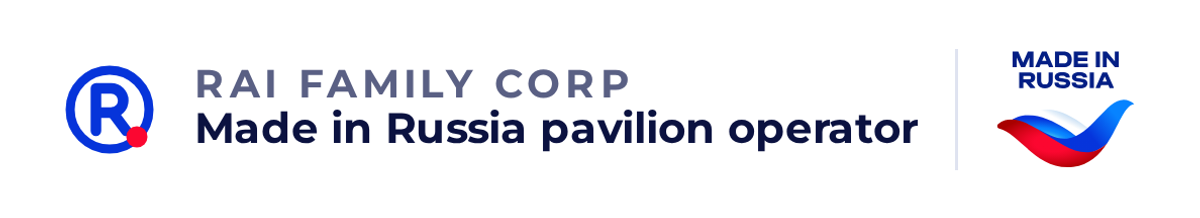
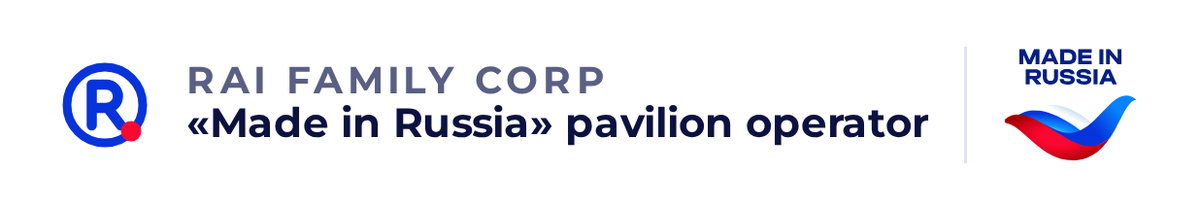
fix(i18n): write the «Made in Russia» mark in guillemets everywhere
Same convention as «Сделано в России» in RU. The only unquoted form left is
the image alt (status.markAlt). Rule recorded in CLAUDE.md.

Claude-Session: https://claude.ai/code/session_0174xDGYvpD3uDKJ4RSyVDz9

diff --git a/src/i18n/ui.ts b/src/i18n/ui.ts
@@ -98,9 +98,9 @@ export const ui: Record<'en' | 'ru', Copy> = {
   en: {
     meta: {
       siteName: 'Rai Family Corp',
-      title: 'Rai Family Corp: operator of the Made in Russia National Pavilion in India',
+      title: 'Rai Family Corp: operator of the «Made in Russia» National Pavilion in India',
       description:
-        'Rai Family Corp LLP is the operator of the Made in Russia National Pavilion in Navi Mumbai, a Russian Export Center project and the first in India. Distribution, marketing, import, certification and logistics for Russian products.',
+        'Rai Family Corp LLP is the operator of the «Made in Russia» National Pavilion in Navi Mumbai, a Russian Export Center project and the first in India. Distribution, marketing, import, certification and logistics for Russian products.',
     },
     nav: {
       about: 'About',
@@ -126,17 +126,17 @@ export const ui: Record<'en' | 'ru', Copy> = {
       cardTitle: '{count} Russian {count:company is|companies are} already in the pavilion',
     },
     trust: {
-      operator: 'Made in Russia pavilion operator',
+      operator: '«Made in Russia» pavilion operator',
       pavilion: 'First pavilion of the programme in India',
       since: 'Company since 2024, pavilion since August 2026',
-      mark: 'Made in Russia mark',
+      mark: '«Made in Russia» mark',
     },
     status: {
       company: 'Rai Family Corp',
       // Top line for direction sites (D5 and the next ones), where the operator's name is not on the page.
       direction: 'A Rai Family Corp direction',
-      line: 'Made in Russia pavilion operator, India',
-      lineShort: 'Made in Russia pavilion operator',
+      line: '«Made in Russia» pavilion operator, India',
+      lineShort: '«Made in Russia» pavilion operator',
       markAlt: 'Made in Russia mark',
     },
     audiences: {
@@ -146,7 +146,7 @@ export const ui: Record<'en' | 'ru', Copy> = {
       items: {
         manufacturers: {
           title: 'Russian manufacturers',
-          text: 'Enter the Indian market through the Made in Russia pavilion: market assessment, adaptation, certification, import and distribution under one contract.',
+          text: 'Enter the Indian market through the «Made in Russia» pavilion: market assessment, adaptation, certification, import and distribution under one contract.',
           cta: 'See services',
         },
         distributors: {
@@ -161,7 +161,7 @@ export const ui: Record<'en' | 'ru', Copy> = {
         },
         consumers: {
           title: 'Consumers in India',
-          text: 'Products carrying the Made in Russia mark are imported, certified and distributed in India through this pavilion.',
+          text: 'Products carrying the «Made in Russia» mark are imported, certified and distributed in India through this pavilion.',
           cta: 'Browse products',
         },
       },
@@ -170,11 +170,11 @@ export const ui: Record<'en' | 'ru', Copy> = {
       eyebrow: 'About the company',
       title: 'The official gateway for Russian products and technologies into India',
       paragraphs: [
-        'Rai Family Corp LLP is an Indian company and the operator of the Made in Russia National Pavilion in Navi Mumbai, a Russian Export Center project. The pavilion is where Russian manufacturers meet Indian distributors, retail chains and institutions.',
+        'Rai Family Corp LLP is an Indian company and the operator of the «Made in Russia» National Pavilion in Navi Mumbai, a Russian Export Center project. The pavilion is where Russian manufacturers meet Indian distributors, retail chains and institutions.',
         'We provide direct distribution channels and marketing promotion, and cover the full range of related work: market research, product and packaging adaptation, certification, import procedures, legal support and logistics.',
       ],
       facts: [
-        { label: 'Status', value: 'Made in Russia National Pavilion operator' },
+        { label: 'Status', value: '«Made in Russia» National Pavilion operator' },
         { label: 'Founded', value: 'September 2024' },
         { label: 'Registered', value: 'India, Maharashtra' },
         { label: 'Pavilion', value: 'Opened 21 August 2026, CBD Belapur, Navi Mumbai' },
@@ -251,10 +251,10 @@ export const ui: Record<'en' | 'ru', Copy> = {
     },
     pavilion: {
       eyebrow: 'Pavilion',
-      title: 'Made in Russia National Pavilion, Navi Mumbai',
+      title: '«Made in Russia» National Pavilion, Navi Mumbai',
       subtitle:
         'A Russian Export Center project · opened 21 August 2026 · CBD Belapur, Navi Mumbai',
-      text: 'The first Made in Russia pavilion in India, a Russian Export Center project opened on 21 August 2026. It is the physical home of Russian products in the country: a showroom for distributors and institutions, a venue for tastings and B2B meetings, and the office of the operator, Rai Family Corp.',
+      text: 'The first «Made in Russia» pavilion in India, a Russian Export Center project opened on 21 August 2026. It is the physical home of Russian products in the country: a showroom for distributors and institutions, a venue for tastings and B2B meetings, and the office of the operator, Rai Family Corp.',
       addressLabel: 'Address',
       address: [
         'Office No. 1307 and 1308, NMS Titanium, 13th Floor',
@@ -277,10 +277,10 @@ export const ui: Record<'en' | 'ru', Copy> = {
     footer: {
       legal: 'Rai Family Corp LLP',
       operator:
-        'Operator of the Made in Russia National Pavilion in India, a Russian Export Center project',
+        'Operator of the «Made in Russia» National Pavilion in India, a Russian Export Center project',
       rights: 'All rights reserved.',
       madeInRussia:
-        '“Made in Russia” is a trademark of the Russian Export Center, used with permission.',
+        '«Made in Russia» is a trademark of the Russian Export Center, used with permission.',
     },
     notFound: {
       title: 'Page not found',

diff --git a/src/data/company.ts b/src/data/company.ts
@@ -11,7 +11,7 @@ export const company = {
   /** Whether it is the first pavilion of the programme in India. Подтвердить у РЭЦ. */
   firstInIndia: true,
   /** Official English name of the pavilion. Подтвердить у РЭЦ. */
-  officialPavilionName: 'Made in Russia National Pavilion',
+  officialPavilionName: '«Made in Russia» National Pavilion',
   /** Russian companies present in the pavilion. Open sources, checked 2026-09-14; update the date when the number changes. */
   pavilionResidents: 52,
   pavilionResidentsCheckedOn: '2026-09-14',

diff --git a/CLAUDE.md b/CLAUDE.md
@@ -44,6 +44,8 @@ tailwind, eslint/prettier с astro-плагинами, playwright + axe, lhci).
   знак «Made in Russia» можно использовать как партнёрскую марку; вектор лежит в
   `src/assets/brand/made-in-russia.svg` (вертикальная версия с обложки гайда). Шрифт Montserrat — через
   Fonts API Astro (`astro.config.mjs`), самохостинг на сборке.
+- Торговый знак пишется в кавычках-ёлочках в обеих локалях: «Сделано в России», «Made in Russia»
+  (в EN тоже «», не “”). Без кавычек — только в alt изображения знака (`status.markAlt`) и в коде.
 - Ключевое преимущество для всех текстов: официальный оператор павильона РЭЦ в Индии.
 - Команду/руководство не показывать. Контакты, партнёры, цифры — только подтверждённые,
   до получения данных — плейсхолдеры из `ui.ts` (`contacts.placeholder`).
